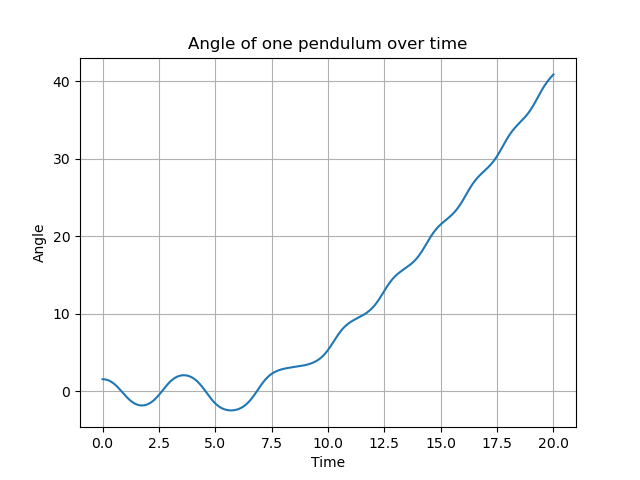
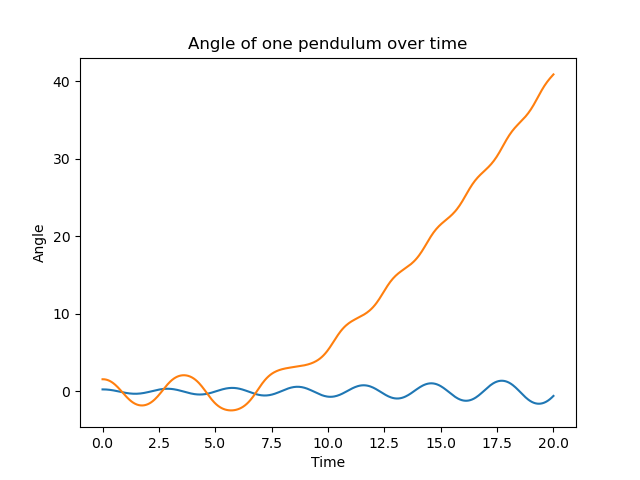
baeng

diff --git a/src/Project2.py b/src/Project2.py
@@ -161,19 +161,24 @@ def animateAllPendulums(theta1, theta2, n, T, name):
     ani.save(ANIMATION_PATH.format(name), writer='pillow', fps=n/T)
     printFigText(name)
 
-def plotOnePendulum(theta, n, T, name):
-    print(PLOT_TEXT)
+def plotOnePendulum(theta, n, T, verbose=True, name=None, fig=None, ax=None):
+    if verbose: print(PLOT_TEXT)
     x = np.linspace(0, T, n+1)
     y = theta[0]
 
-    fig, ax = plt.subplots(1,1)
+    if fig == None and ax == None:
+        fig, ax = plt.subplots(1,1)
     ax.grid()
     ax.plot(x, y)
     ax.set_xlabel("Time")
     ax.set_ylabel("Angle")
-    ax.set_title("Angle of one pendulum over time")
-    fig.savefig(PLOT_PATH.format(name))
-    printFigText(name)
+    # ax.set_title("Angle of one pendulum over time")
+
+    if name != None:
+        fig.savefig(PLOT_PATH.format(name))
+
+    if verbose: printFigText(name)
+    return fig, ax
 
 #/-------------------------Problems------------------------------------/
 def prob1():
@@ -188,19 +193,28 @@ def prob2():
     [print(theta[0][i].round(2), end=' ') for i in range(20)]
     print()
 
-def prob3():
+def prob3(plot=True, animate=True):
     print("\n---- Problem 3")
     prob3InitialVal = np.matrix([[np.pi/12], [0]])
     theta = euler(500, 20, prob3InitialVal, F1)
-    # animateOnePendulum(theta, 500, 20, "eirikur\AnimateProb3.gif")
-    plotOnePendulum(theta, 500, 20, "problem3")
+    animateOnePendulum(theta=theta, n=500, T=20, name="problem3")
+    plotOnePendulum(theta=theta, n=500, T=20, name="problem3")
 
 def prob4():
     print("\n---- Problem 4")
+    
+    # problem 3 to compare on plot
+    prob3InitialVal = np.matrix([[np.pi/12], [0]])
+    theta3 = euler(500, 20, prob3InitialVal, F1)
+
+    # problem 4 different initial conditions
     prob4InitialVal = np.matrix([[np.pi/2], [0]])
-    theta = euler(500, 20, prob4InitialVal, F1)
-    animateOnePendulum(theta, 500, 20, "problem4")
-    plotOnePendulum(theta, 500, 20, "problem4")
+    theta4 = euler(500, 20, prob4InitialVal, F1)
+
+    animateOnePendulum(theta4, 500, 20, "problem4")
+    fig, ax = plotOnePendulum(theta=theta3, n=500, T=20, verbose=False, name=None)
+    plotOnePendulum(theta=theta4, n=500, T=20, verbose=True, name="problem4_combined_w_prob3", fig=fig, ax=ax)
+    plotOnePendulum(theta=theta4, n=500, T=20, verbose=True, name="problem4")
 
 
 def prob5():
@@ -254,19 +268,19 @@ def prob13():
     print("Not done")
 
 if __name__ == "__main__":
-    prob1()
-    prob2()
-    prob3()
+    # prob1()
+    # prob2()
+    # prob3()
     prob4()
-    prob5()
-    prob6()
-    prob7()
-    prob8()
-    prob9()
-    prob10()
-    prob11()
-    prob12()
-    prob13()
+    # prob5()
+    # prob6()
+    # prob7()
+    # prob8()
+    # prob9()
+    # prob10()
+    # prob11()
+    # prob12()
+    # prob13()
     # question_string = "Which question would you like to run (1-13, q to quit): "
     # question_available = [str(i) for i in range(1,13)] + ["q"]
     # question = getInput(question_string, question_available)
